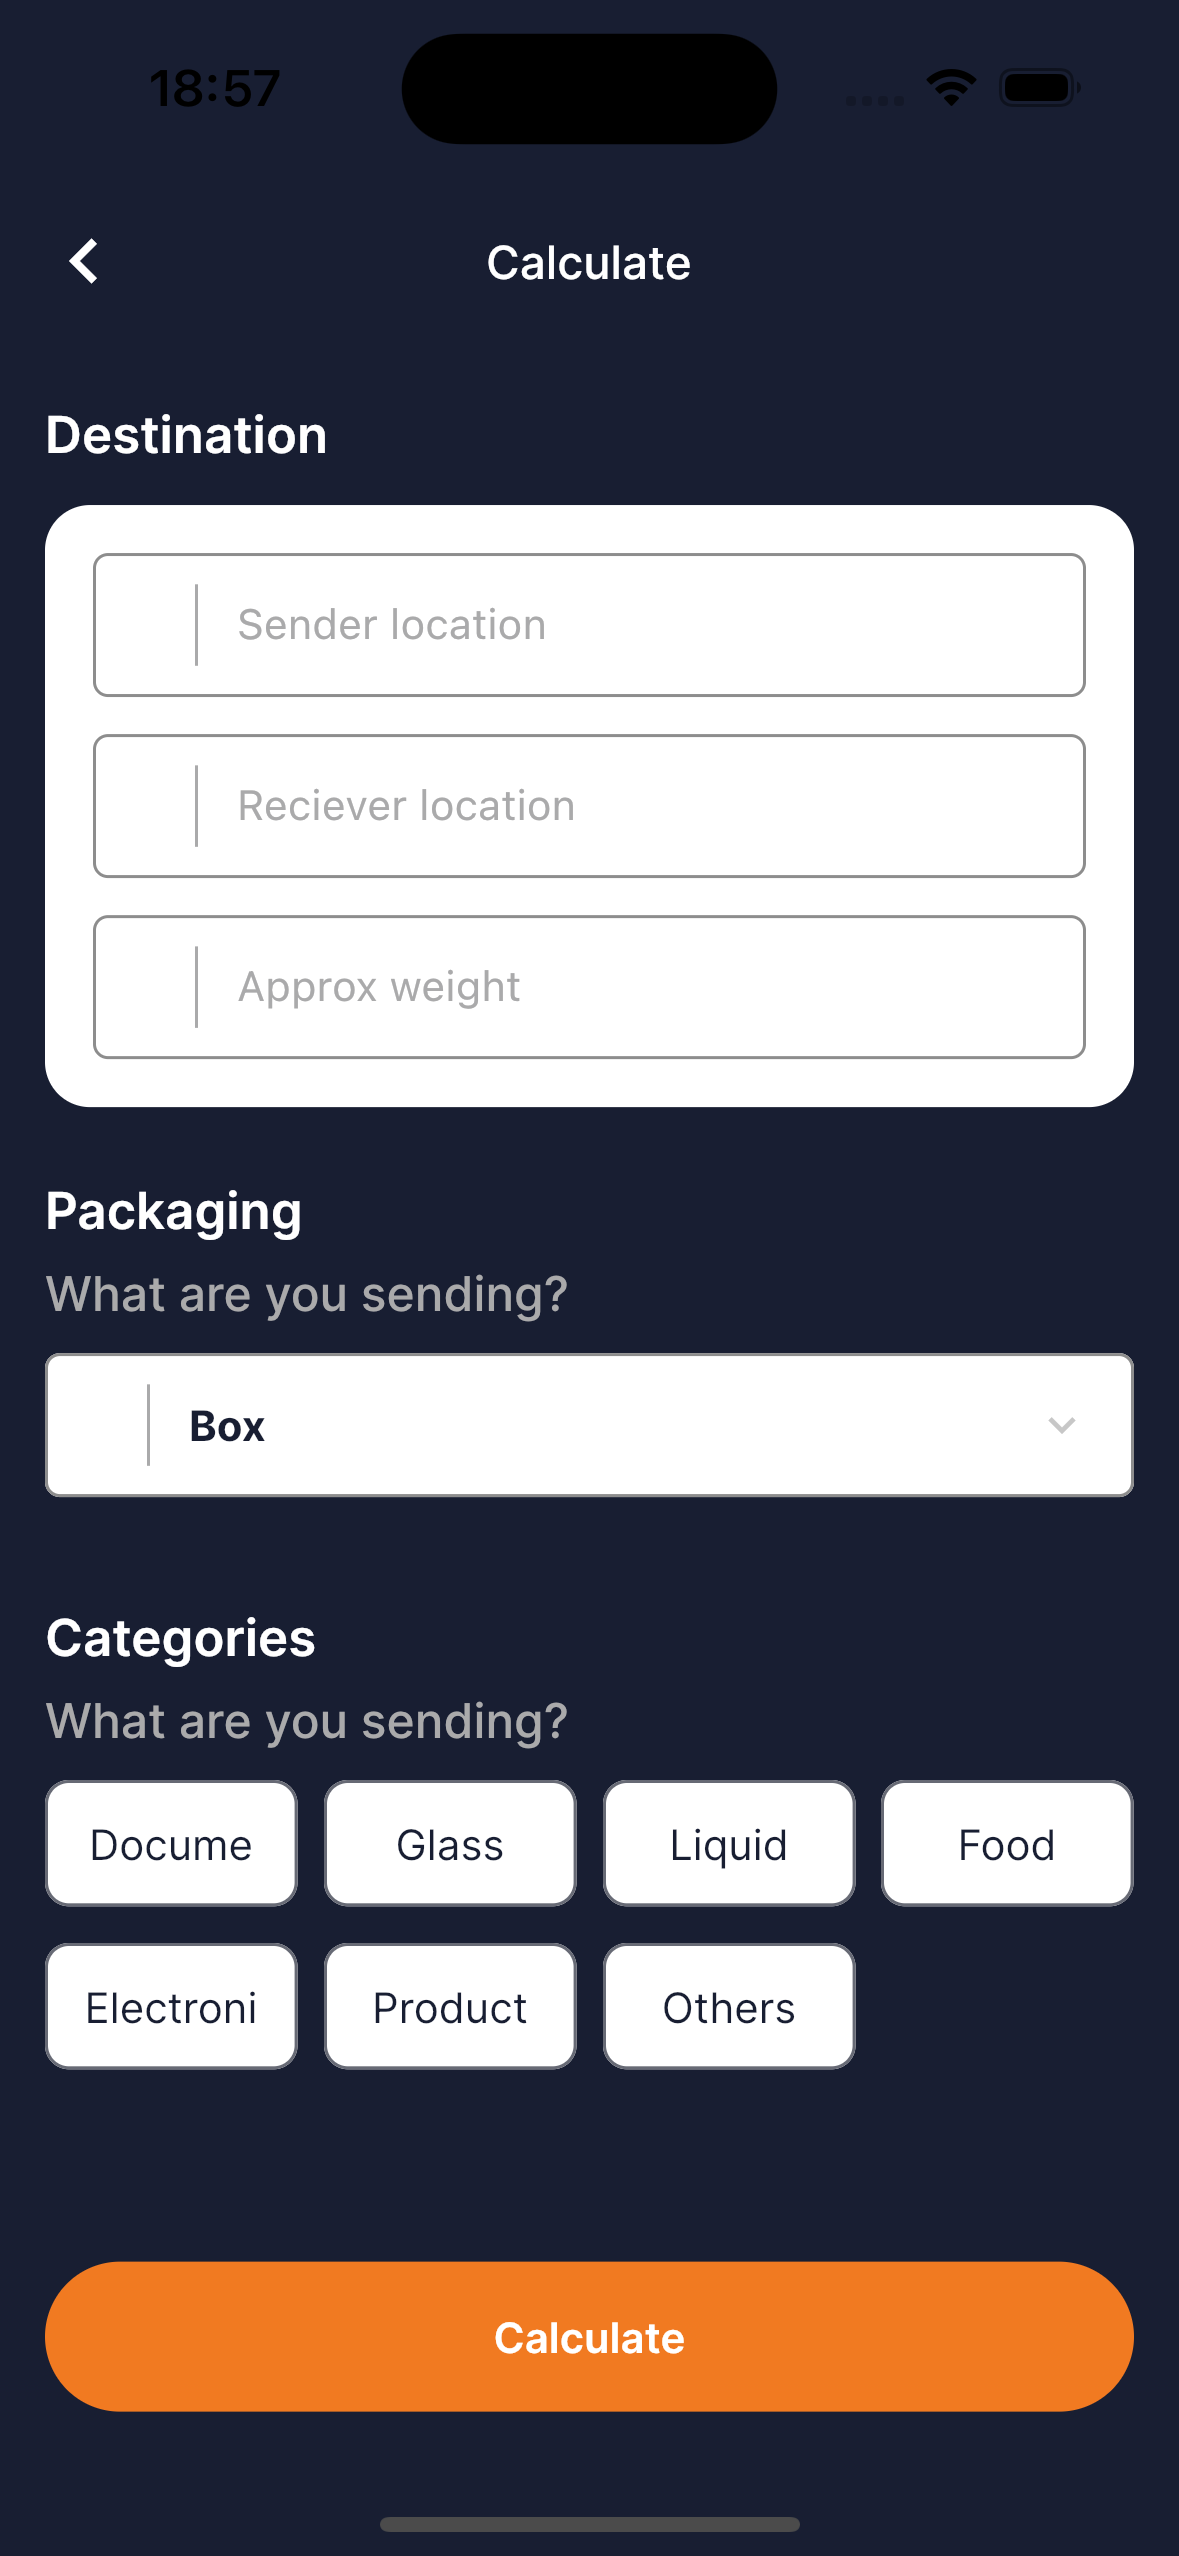
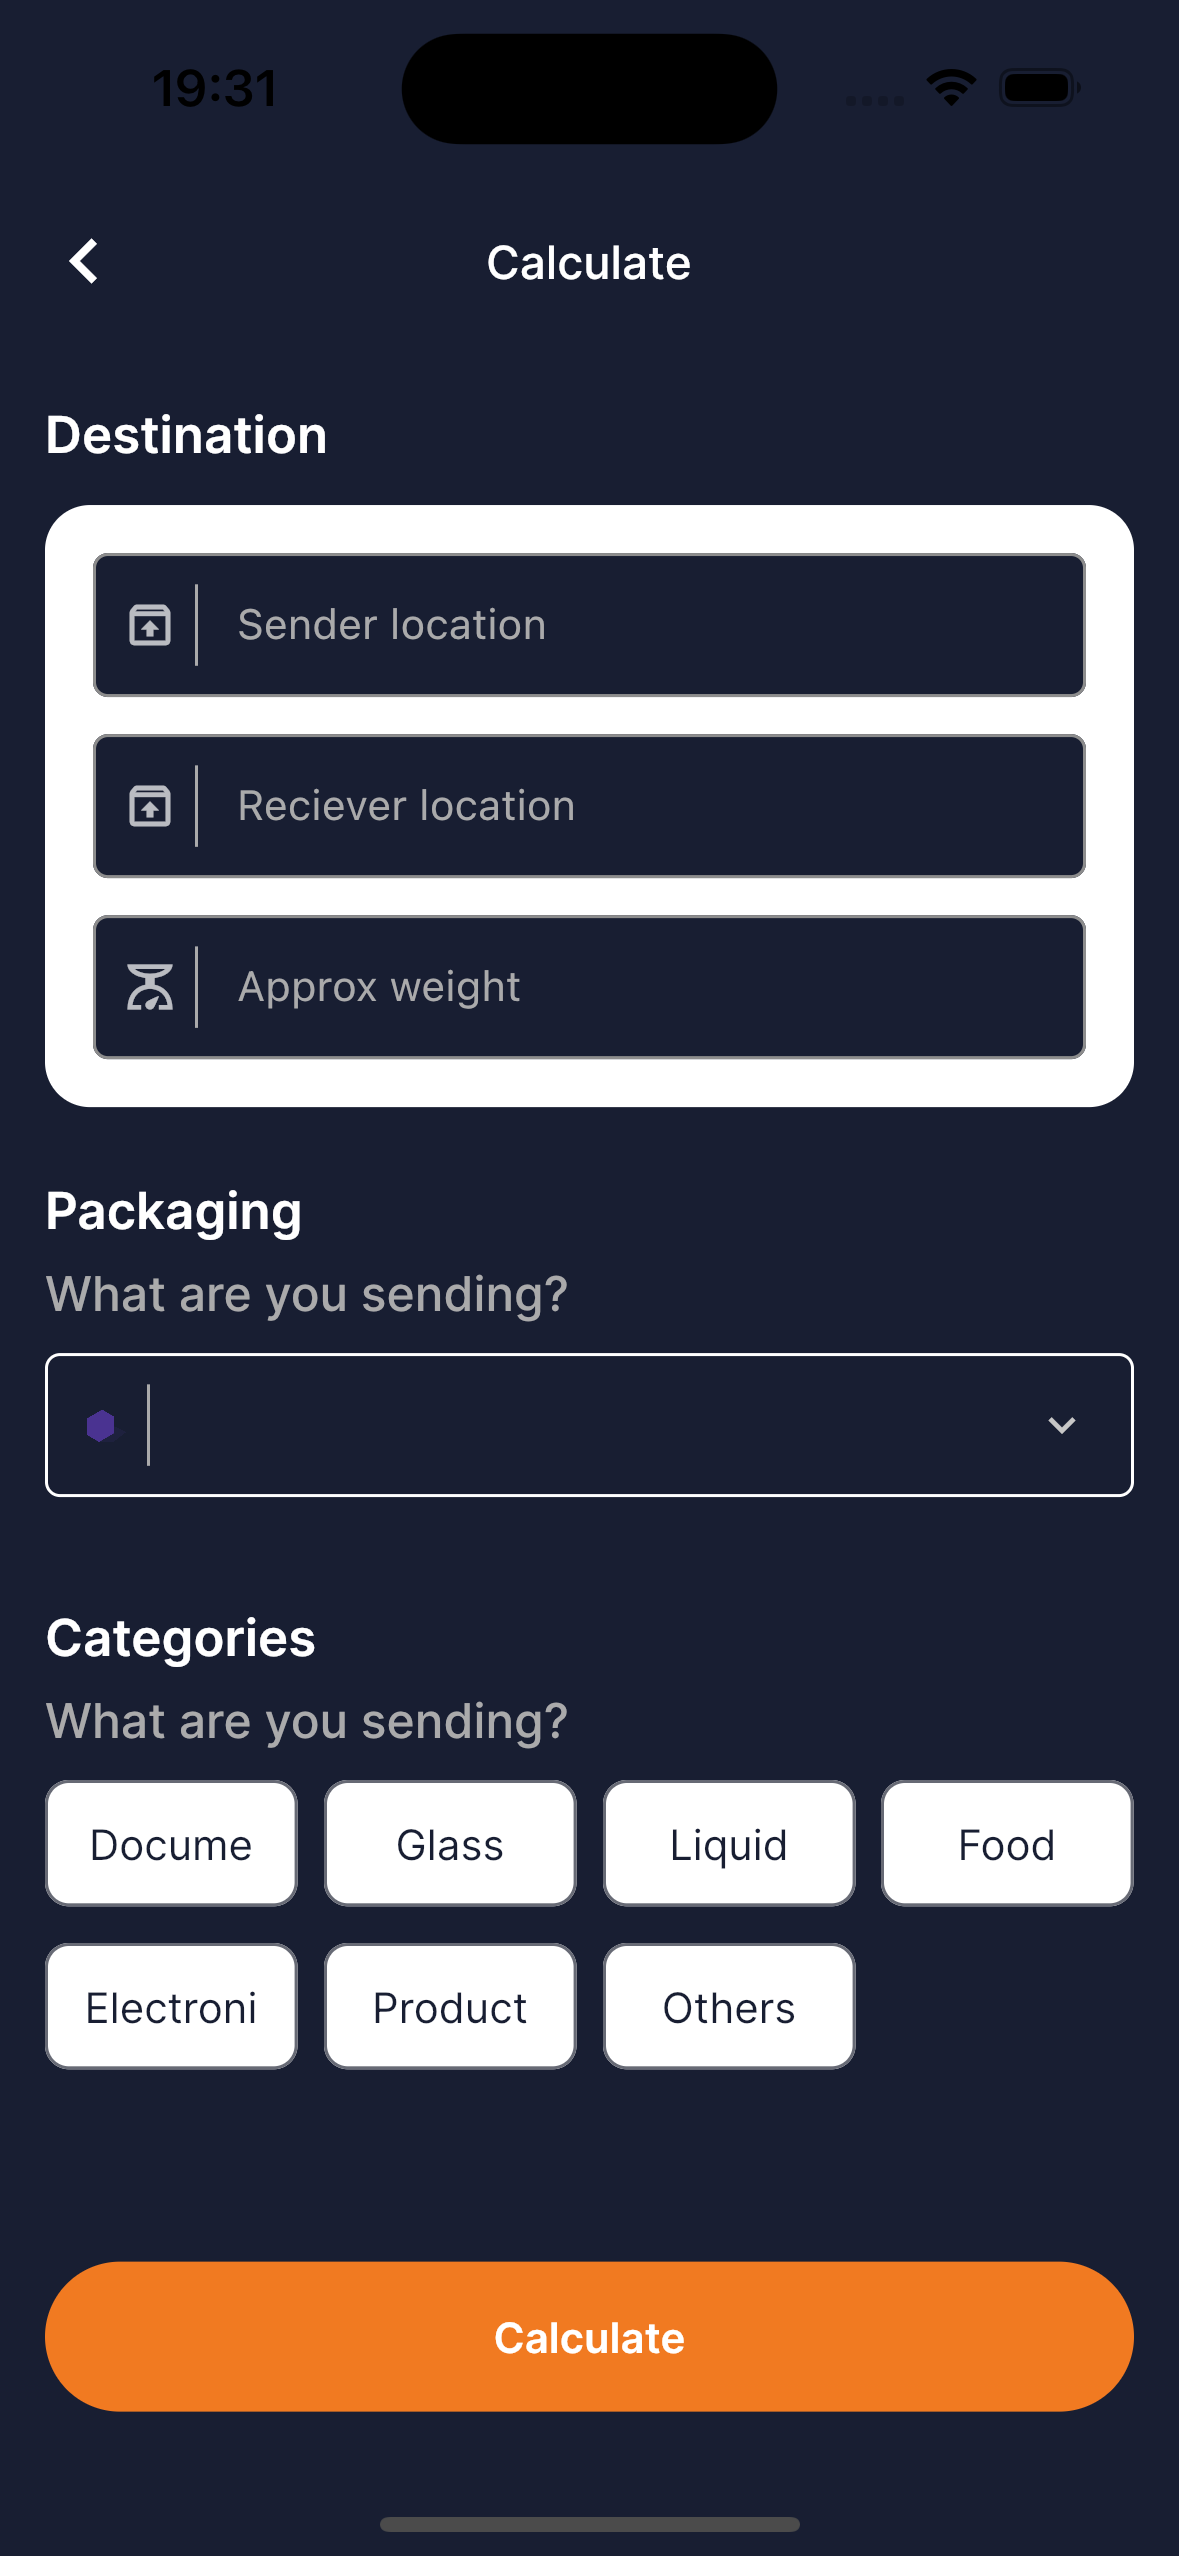
Add doc images

Changed region(s): [[0.0611, 0.2164, 0.916, 0.4327], [0.0305, 0.5254, 0.9771, 0.5872]]

diff --git a/lib/presentation/shipping/calculate_page.dart b/lib/presentation/shipping/calculate_page.dart
@@ -65,6 +65,11 @@ class _CalculatePageState extends State<CalculatePage>
       color: AppColors.adaptiveDark,
       fontSize: 17.0,
     );
+    final border = context.theme.inputDecorationTheme.border!.copyWith(
+      borderSide: BorderSide(
+        color: AppColors.adaptiveDark3,
+      ),
+    );
     return AppScaffold(
       appBar: CustomAppBar(
         title: "Calculate",
@@ -166,7 +171,10 @@ class _CalculatePageState extends State<CalculatePage>
                             fontWeight: FontWeight.w700,
                             color: AppColors.dark,
                           ),
-                          fillColor: Colors.white,
+                          fillColor: AppColors.adaptiveDark2,
+                          border: border,
+                          focusedBorder: border,
+                          enabledBorder: border,
                           suffixIcon: const Icon(
                             Icons.keyboard_arrow_down,
                           ),

diff --git a/lib/core/app_theme.dart b/lib/core/app_theme.dart
@@ -116,7 +116,6 @@ class AppTheme extends InheritedTheme {
       borderSide: BorderSide(color: AppColors.grey),
       borderRadius: BorderRadius.circular(5.0),
     );
-
     return ThemeData(
       useMaterial3: false,
       scaffoldBackgroundColor: AppColors.dark,
@@ -190,7 +189,7 @@ class AppTheme extends InheritedTheme {
           vertical: 10.0.h,
           horizontal: 12.0.h,
         ),
-        fillColor: Colors.white,
+        fillColor: AppColors.dark.shade900,
         filled: true,
       ),
       textSelectionTheme: theme.textSelectionTheme.copyWith(

diff --git a/lib/core/constants/app_colors.dart b/lib/core/constants/app_colors.dart
@@ -87,6 +87,14 @@ class AppColors {
     return appTheme.value.isDark ? AppColors.black : AppColors.white;
   }
 
+  static MaterialColor get adaptiveDark2 {
+    return appTheme.value.isDark ? AppColors.dark : AppColors.white;
+  }
+
+  static MaterialColor get adaptiveDark3 {
+    return appTheme.value.isDark ? AppColors.white : AppColors.white;
+  }
+
   static MaterialColor get adaptivePrimary {
     return appTheme.value.isDark ? AppColors.white : AppColors.primary;
   }
